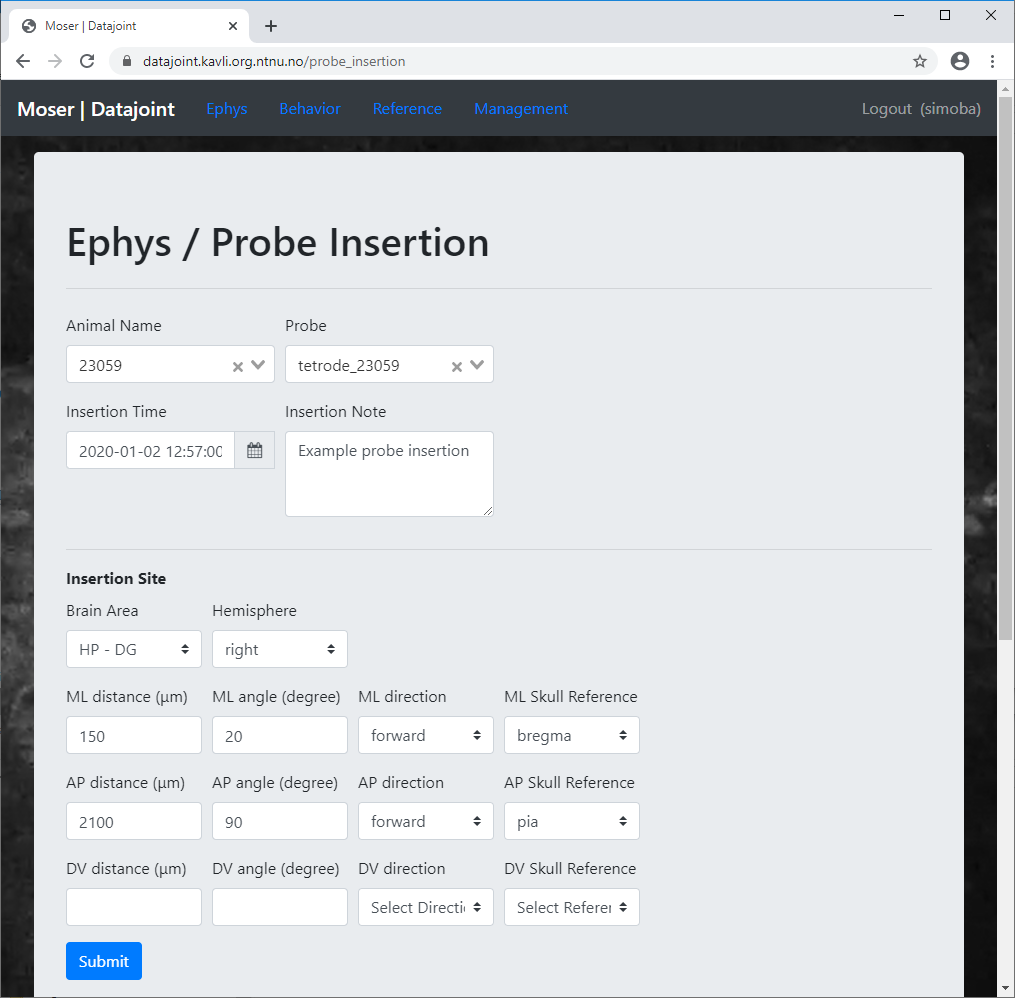
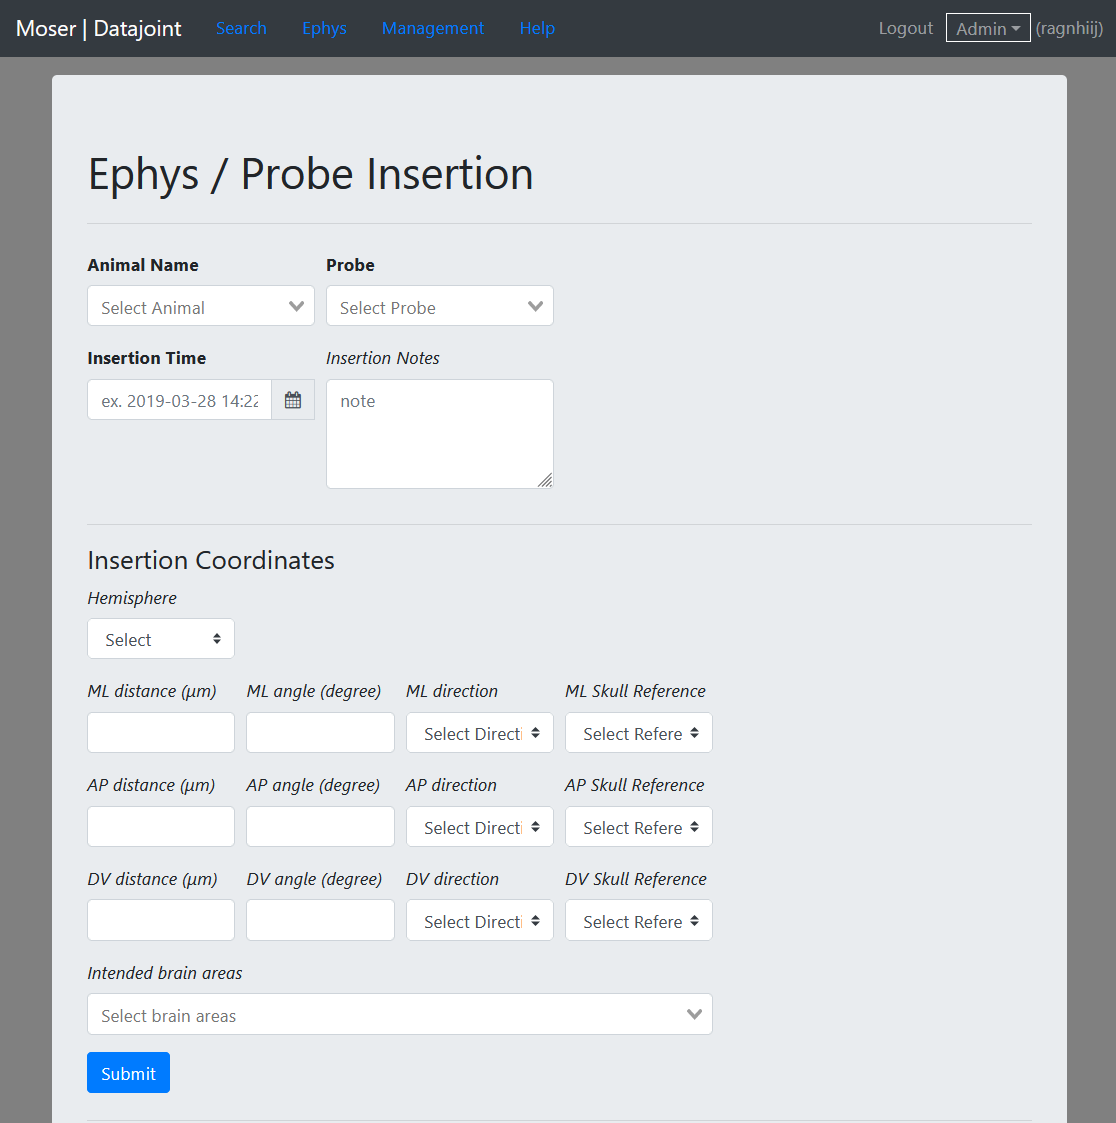
Update webgui walkthrough
Update the walkthrough to account for the changed menu structure in https://github.com/kavli-ntnu/dj-GUI/pull/35

Explain changes to multiple choice brain areas from https://github.com/kavli-ntnu/dj-elphys/pull/108

diff --git a/docs/ephys/ingestion_webgui.rst b/docs/ephys/ingestion_webgui.rst
@@ -17,6 +17,12 @@ The website requires authentication: this uses the same credentials you use to c
 
 .. figure:: /_static/ephys/webgui/login.PNG
    :alt: The ephys web gui
+   
+
+Mandatory and optional fields
+------------------------------
+
+Fields marked **in bold** are mandatory. Fields marked *with italics* are optional
 
 
 
@@ -29,7 +35,7 @@ The ephys pipelines records the specific implants per subject.
 
 1. Create an instance of a probe - think of this as matching a probe uniquely identified by a serial number - and give it an identifiable name
 
-  - *Reference* -> *Probe* -> *Add Probe*
+  - *Ephys* -> *Probes* -> *Add Probe*
   
   - Select the appropriate kind of probe (4-tetrode array, 8-tetrode array, specific Neuropixels model)
   
@@ -43,35 +49,39 @@ The ephys pipelines records the specific implants per subject.
 
 2. Record the details of the implantation of each probe
 
-  - *Ephys* -> *Probe Insertion*
+  - *Ephys* -> *Probes* -> *Probe Insertion*
   
   - The *Select Subject* and *Select Probe* drop-down menus will search automatically as you type, so you don't have to scroll endlessly to find the entry you need. 
   
   - Insertion Time is as ``YYY-MM-DD HH:MM:SS`` (see :ref:`common pipeline conventions <Common conventions dates>`). Time information is optional (it will default to 00:00:00), but if multiple probes are implanted, a different value must be entered, as this insertion time is used as a unique identity.
   
-  - Fields labelled in **bold** are mandatory. Fields labelled in *italic* are optional. It is recommended to provide optional information where possible. 
+  - *Intended Brain Areas* is a multiple-choice dropdown, and is intended to capture the entire set of brain areas that you *expect* the probe to record from. Actual brain areas can be added later, after analysing histology
 
-.. figure:: /_static/ephys/webgui/add_probe_3.PNG
+.. figure:: /_static/ephys/webgui/add_probe_1.PNG
    :alt: Navigating to the Probe Insertion page
 
 .. figure:: /_static/ephys/webgui/add_probe_4.PNG
    :alt: Creating a record of a Probe Insertion
 
 
-3. (In the case of tetrodes) TODO TODO
+3. (In the case of hyper-drive/tetrodes): Adjustments to the tetrode position can be recorded:
+
+  - *Ephys* -> *Probes* -> *Probe Adjustment*
+  
+  - Estimate the depth change
+
+
 
 Ingesting Sessions
 ------------------
 
-See :ref:'Ephys terminology` for a discussion of what **Session** means within the Ephys pipeline, and how it differs from the Imaging pipeline
+See :ref:`Ephys terminology` for a discussion of what **Session** means within the Ephys pipeline, and how it differs from the Imaging pipeline
 
 Once a subject implant has been recorded, the Session Ingestion becomes the main point of entry into the pipeline for all future data associated with that subject. 
 
 1. Add the Session to the pipeline
 
-  - *Ephys* -> *Add Session*
-  
-   - Fields labelled in **bold** are mandatory. Fields labelled in *italic* are optional. It is recommended to provide optional information where possible. 
+  - *Ephys* -> *Sessions* -> *Add Session*
    
    - **Input directory path**: Your data must be in a directory that the database worker can access and read. In general, this means that the data must be on the Moser network share (`\\forskning.it.ntnu.no\ntnu\mh-kin\moser`). The database worker recognises this as "N-drive", and accepts input paths given in either Windows format (`N:\...`) or Unix format (`/mnt/N/...`). Even if you have that drive mounted differently on your own computer(s), the worker server expects files on the Moser network drive to be given as `N:/...` or `/mnt/N/...`.
    
@@ -86,7 +96,7 @@ Once a subject implant has been recorded, the Session Ingestion becomes the main
 
   - The session will be processed by a background worker. Typically, this should only take a few seconds, but if there are many active users, this might take a minute or two.
   
-  - Once it has either been ingested, or ingestion has failed for some reason, the session should appear under *Ephys* -> *Session Status*
+  - Once it has either been ingested, or ingestion has failed for some reason, the session should appear under *Ephys* -> *Sessions* -> *Session Status*
   
   - If the subject has multiple probe implants, then you must provide information on **Probe Association**. This is a specification of which recording data came from which probe. 
 
@@ -107,7 +117,7 @@ Once a subject implant has been recorded, the Session Ingestion becomes the main
 
   - Unless a *Tracking System Setup* was assigned when the session was ingested, most **Tracking** information cannot be computed until information about **Tasks** are ingested
   
-  - The **Task** ingestion page can be accessed either via *Behavior* -> *Add Behavior Task*, or via the shortcut link in the Session Status page *+ Behavior Task*.
+  - The **Task** ingestion page can be accessed either via *Ephys* -> *Behavior* -> *Add Tasks*, or via the shortcut link in the Session Status page *+ Behavior Task*.
   
   - When the **Session** was ingested, the background workers attempted to infer the timing of individual **Tasks**, and these inferrences, if any, are pre-filled, with some inferred details. 
   
@@ -127,7 +137,7 @@ Once a subject implant has been recorded, the Session Ingestion becomes the main
 
 4. Add **Clustering**
 
-  - The **Add Clustering** page can be accessed either via *Ephys* -> *Add Clustering* -> *Add Single Session Clustering* menu; or via the shortcut link in the Session Status page *+ Clustering*
+  - The **Add Clustering** page can be accessed either via *Ephys* -> *Clustering* -> *Add Single Session Clustering* menu; or via the shortcut link in the Session Status page *+ Clustering*
   
     - Specify the **Curator**, i.e. which researcher ran and vetted the clustering output
     
@@ -153,6 +163,14 @@ Once a subject implant has been recorded, the Session Ingestion becomes the main
      :alt: Adding multi-session clustering
      
      Adding multi-session clustering
+
+
+Post Histology
+------------------
+
+- Links to histology images can be added via *Ephys* -> *Probes* -> *Add Histology*.
+
+- Actual brain areas from which the probe recorded can be added via *Ephys* -> *Probes* -> *Update brain area*. 
 
 
 
